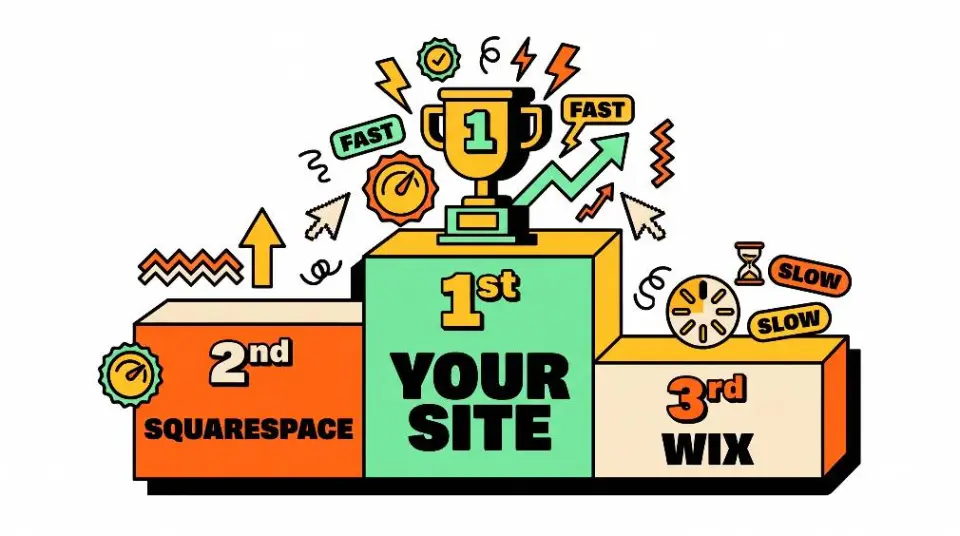
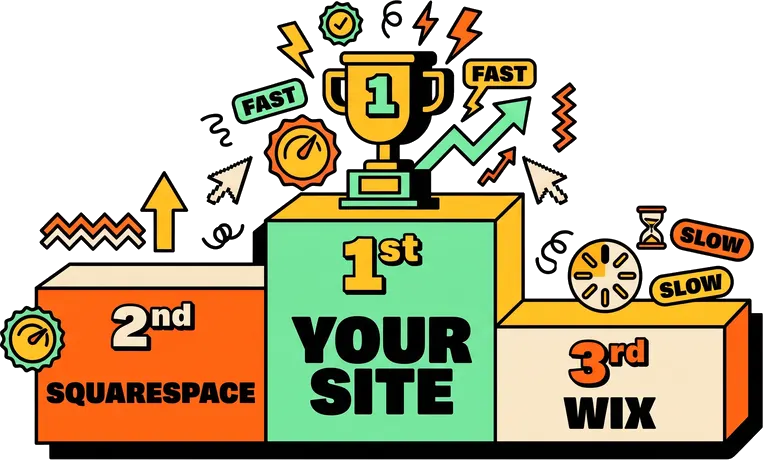
Service pages: hero illustrations cut out of their white backgrounds, straight on the graph paper

diff --git a/src/pages/services/serviceHeroImages.ts b/src/pages/services/serviceHeroImages.ts
@@ -1,5 +1,6 @@
 // The illustration on the right of each service page's hero (used by
-// serviceLandingPage.ts). Compressed copies live in assets/service-heroes.
+// serviceLandingPage.ts). Compressed copies with the white background cut
+// out live in assets/service-heroes.
 // Four services have no drawing of their own yet, so they borrow the
 // closest one; give them their own file here when there is one.
 import webDesign from '../../assets/service-heroes/web-design-hero.webp'
@@ -19,24 +20,36 @@ export interface HeroImage {
   height: number
 }
 
-const square = (src: string): HeroImage => ({ src, width: 960, height: 960 })
-const wide = (src: string): HeroImage => ({ src, width: 960, height: 536 })
+// Each drawing's own size (they're cut out and trimmed to the art).
+const sized = (src: string, width: number, height: number): HeroImage => ({ src, width, height })
+const IMG = {
+  webDesign: sized(webDesign, 747, 788),
+  webDev: sized(webDev, 805, 453),
+  brand: sized(brand, 628, 451),
+  seo: sized(seo, 917, 536),
+  automation: sized(automation, 883, 880),
+  ecommerce: sized(ecommerce, 789, 474),
+  payments: sized(payments, 547, 431),
+  analytics: sized(analytics, 863, 484),
+  review: sized(review, 673, 519),
+  faster: sized(faster, 763, 460),
+}
 
 export const SERVICE_HERO_IMAGES: Record<string, HeroImage> = {
-  'web-design': square(webDesign),
-  'development': wide(webDev),
-  'brand-identity': wide(brand),
-  'seo-performance': wide(seo),
-  'business-automation': square(automation),
-  'ecommerce': wide(ecommerce),
-  'booking-payments': wide(payments),
-  'analytics-tracking': wide(analytics),
-  'reviews-reputation': wide(review),
+  'web-design': IMG.webDesign,
+  'development': IMG.webDev,
+  'brand-identity': IMG.brand,
+  'seo-performance': IMG.seo,
+  'business-automation': IMG.automation,
+  'ecommerce': IMG.ecommerce,
+  'booking-payments': IMG.payments,
+  'analytics-tracking': IMG.analytics,
+  'reviews-reputation': IMG.review,
   // Beating the old site builders on the podium: leaving them behind.
-  'redesign-migration': wide(faster),
+  'redesign-migration': IMG.faster,
   // Borrowed until they get their own drawing.
-  'local-seo': wide(seo),
-  'ai-assistants': square(automation),
-  'care-maintenance': wide(webDev),
-  'accessibility': square(webDesign),
+  'local-seo': IMG.seo,
+  'ai-assistants': IMG.automation,
+  'care-maintenance': IMG.webDev,
+  'accessibility': IMG.webDesign,
 }

diff --git a/src/pages/services/serviceLandingPage.ts b/src/pages/services/serviceLandingPage.ts
@@ -28,8 +28,8 @@ const STAT_FILLS = ['var(--color-lilac)', 'var(--color-mint)', 'var(--color-lemo
 // Section 1 — Hero, in two columns: on the left the eyebrow as a mono pill,
 // the outcome-first headline (its accent phrase on a lemon highlight box),
 // the subhead and the call to action; on the right the service's
-// illustration in an ink-framed card, with the reply-time sticker on its
-// corner. Below 1024px the picture drops under the buttons. The tape
+// illustration (cut out, straight on the graph paper), with the reply-time
+// sticker on its corner. Below 1024px the picture drops under the buttons. The tape
 // (components/tape) runs across its bottom edge.
 const renderHero = (d: ServiceLandingData) => {
   const img = SERVICE_HERO_IMAGES[d.slug]
@@ -48,7 +48,7 @@ const renderHero = (d: ServiceLandingData) => {
           </div>
         </div>
         <div class="svc-hero-media reveal">
-          ${img ? `<figure class="svc-hero-figure nb-card"><img src="${img.src}" width="${img.width}" height="${img.height}" alt="" fetchpriority="high" decoding="async" /></figure>` : ''}
+          ${img ? `<figure class="svc-hero-figure"><img src="${img.src}" width="${img.width}" height="${img.height}" alt="" fetchpriority="high" decoding="async" /></figure>` : ''}
           ${circleSticker(['Usually', '1 day', 'to reply'], { className: 'svc-hero-sticker', label: 'Usually replies within one business day' })}
         </div>
       </div>

diff --git a/src/pages/services/serviceLandingPage.css b/src/pages/services/serviceLandingPage.css
@@ -42,23 +42,24 @@
   white-space: normal;
 }
 
-/* The illustration: a white card in the ink frame (the drawings have white
-   backgrounds), with the reply sticker stuck on its top-right corner. */
+/* The illustration, cut out of its background so it sits straight on the
+   graph paper, no taller than the copy beside it, with the reply sticker on
+   its top-right corner. */
 .svc-hero-media {
   position: relative;
   max-width: 34rem;
 }
 
 .svc-hero-figure {
-  --nb-card-bg: #fff;
   margin: 0;
-  overflow: hidden;
 }
 
 .svc-hero-figure img {
   display: block;
   width: 100%;
   height: auto;
+  max-height: 30rem;
+  object-fit: contain;
 }
 
 .svc-hero-sub {
